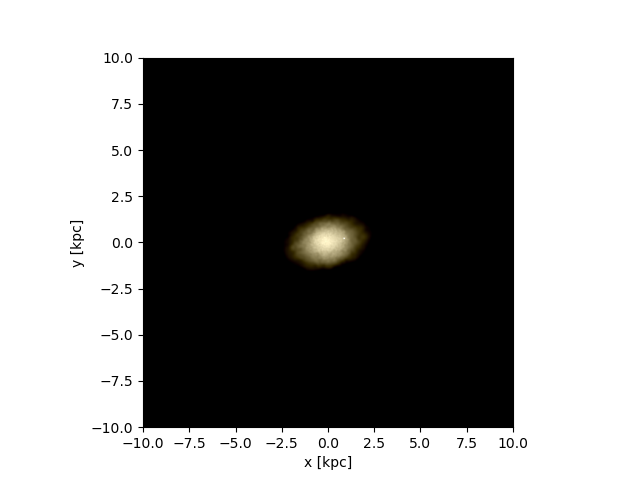
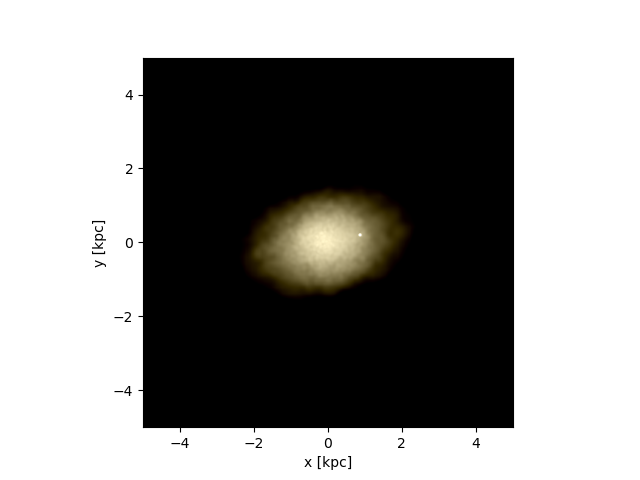
multiband image of stars cptmarvel

diff --git a/makingpics_multiband.py b/makingpics_multiband.py
@@ -13,8 +13,8 @@ s.physical_units()
 pynbody.analysis.angmom.sideon(s)
 
 #creating image using default bands(i,v,u)
-#pynbody.plot.stars.render(s,width='20 kpc')
+pynbody.plot.stars.render(s,width='10 kpc')
 
-sph.image(s.s,width=20,denoise=True,approximate_fast=False)
-plt.show()
-#plt.savefig("multiband.png")
+#sph.image(s.s,width=20,denoise=True,approximate_fast=False)
+#plt.show()
+plt.savefig("multiband.png")
